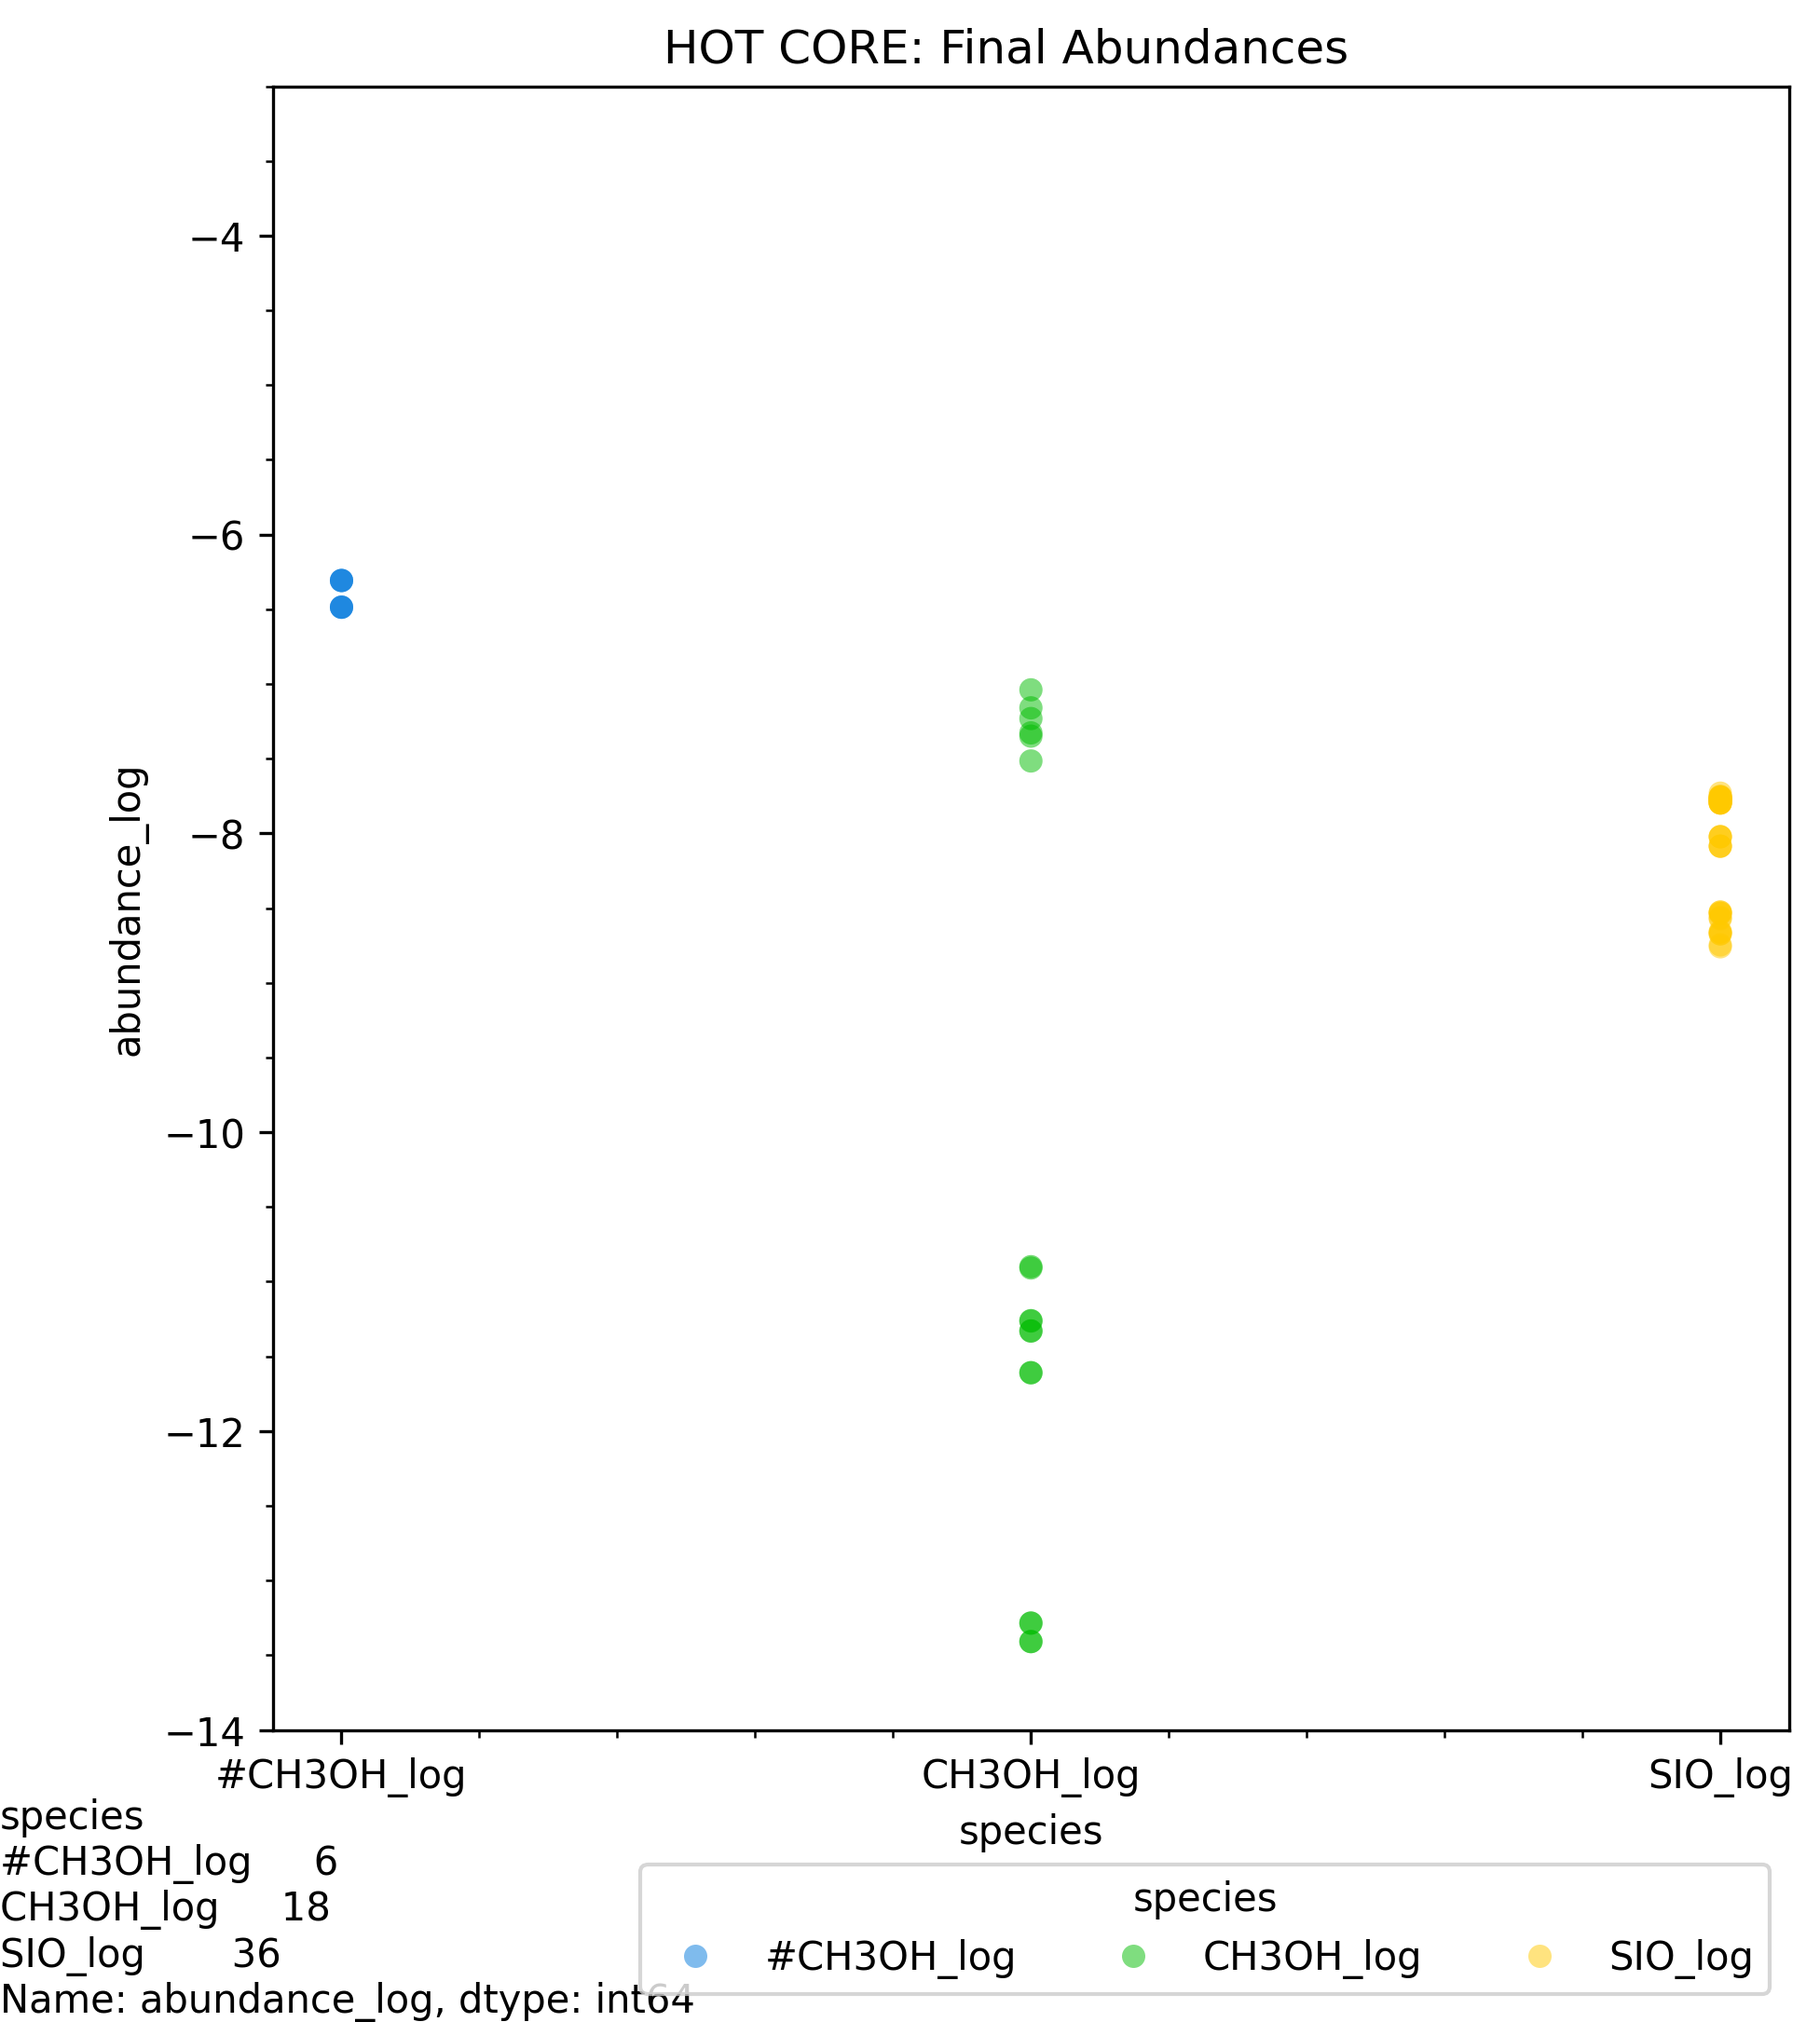
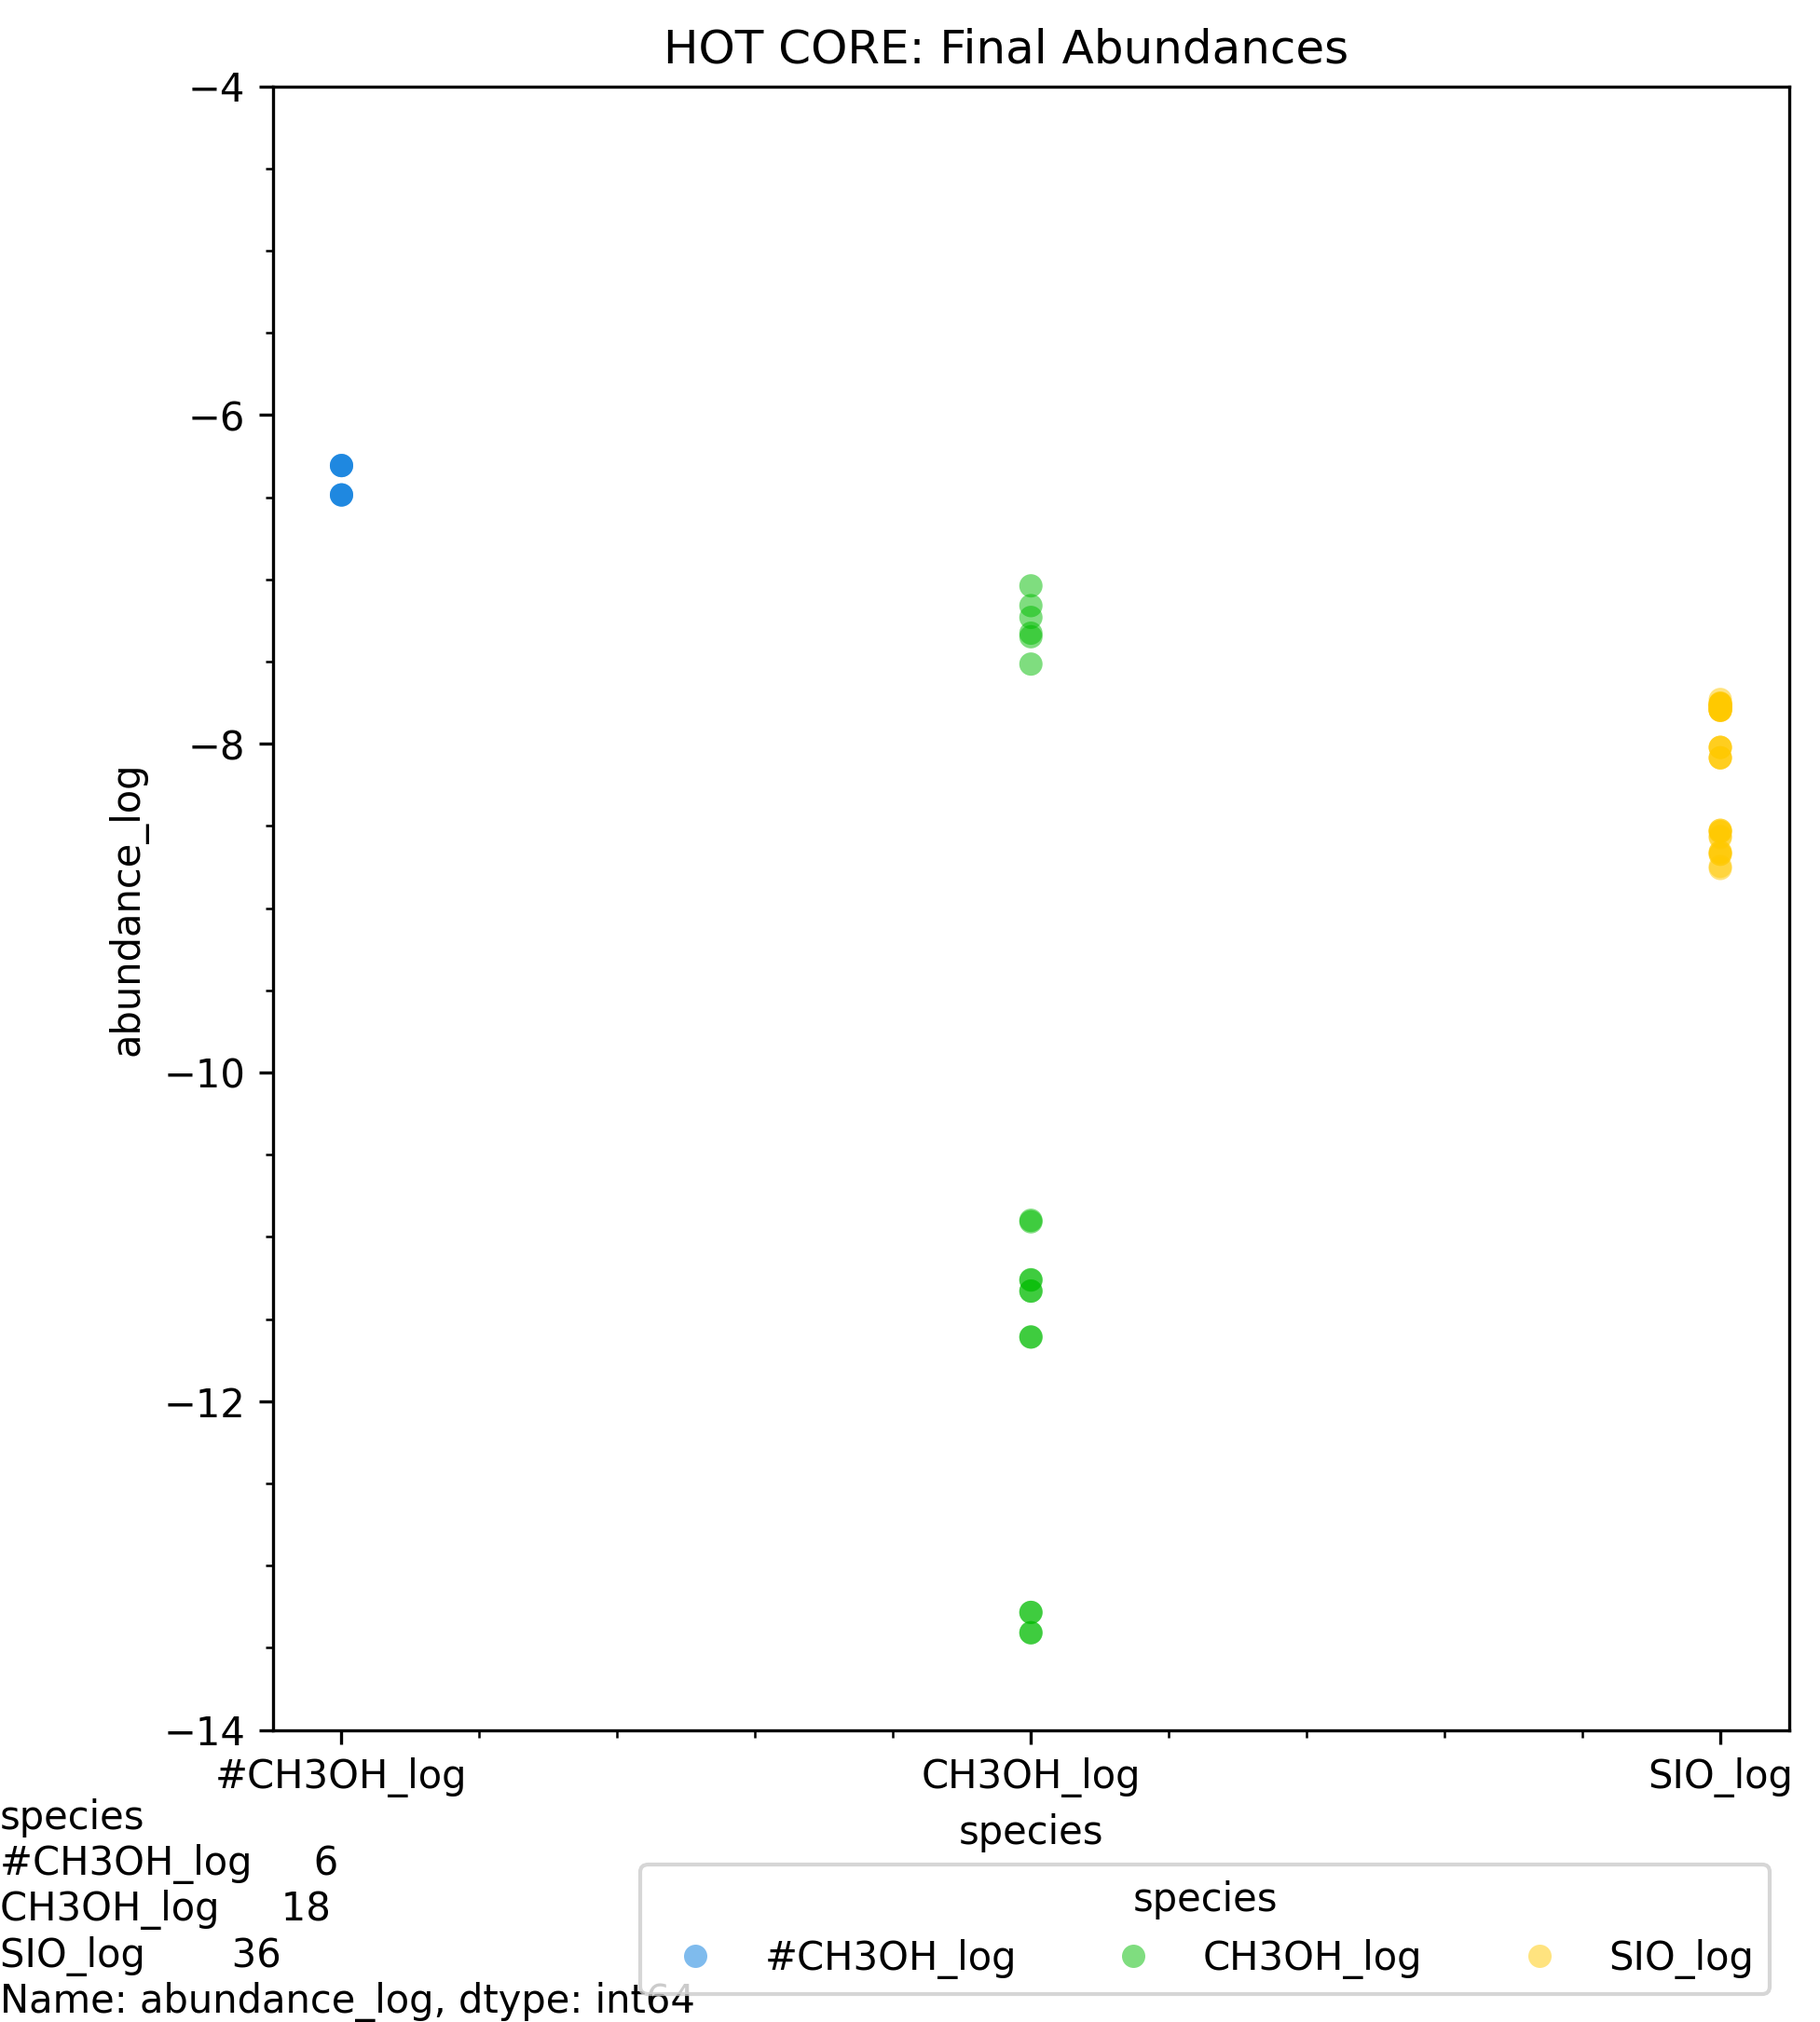
fixed y axis

diff --git a/Analysis/Plotting.py b/Analysis/Plotting.py
@@ -263,7 +263,7 @@ def localAbundancePlot(df, phys, tipo, nameBase, momento=constants.FINAL):
                 linewidth=0, ax=ax, alpha=0.5,
                 )
     sns.move_legend(ax, "upper right", bbox_to_anchor=(1, -0.07), ncol=4)
-    ax.set_ybound(-14,-3)
+    ax.set_ybound(-14,-4)
     ax.minorticks_on()
     fig.suptitle(tipo.upper()+f': {momento} Abundances')
     ax.annotate(df.groupby(by=['species'])['abundance_log'].count(), xy=(0,0), xycoords='figure fraction', va='bottom', ha='left')
